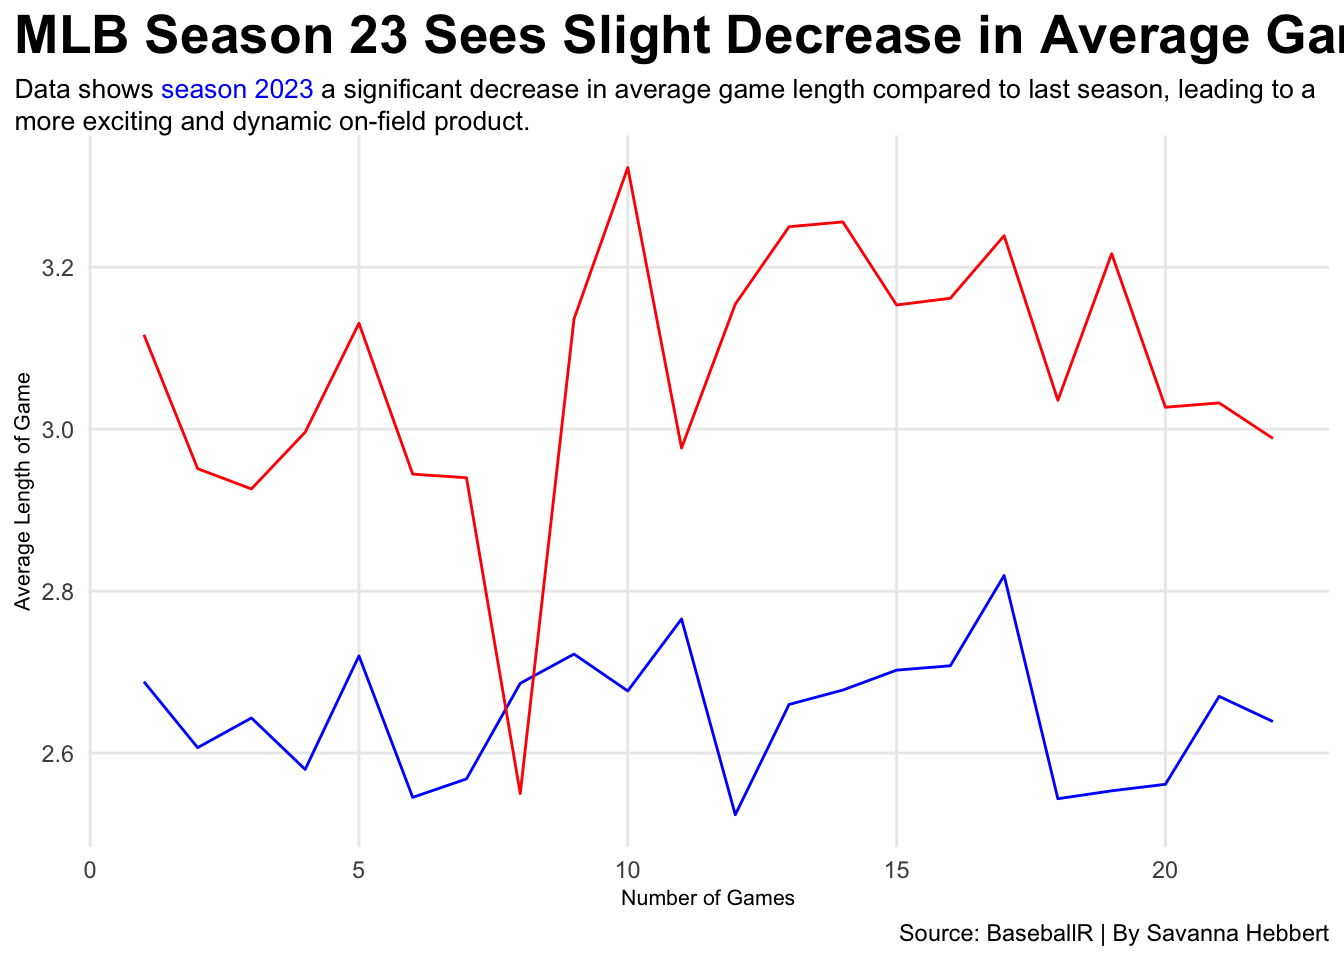
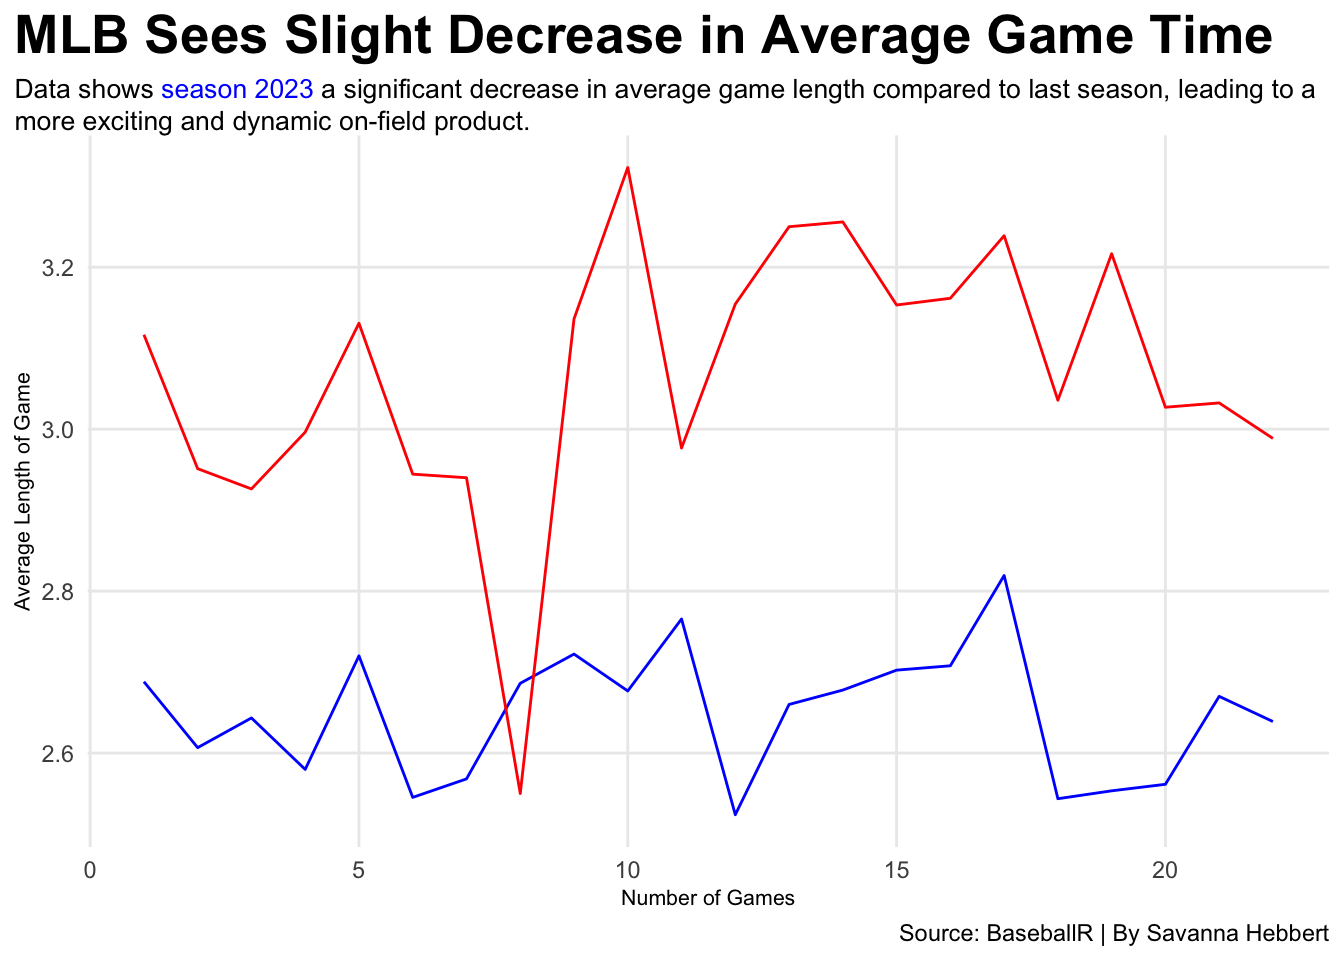
post2.2

Changed region(s): [[0.1562, 0.0, 1.0, 0.0625]]

diff --git a/posts/are-baseball-games-getting-shorter/index.html b/posts/are-baseball-games-getting-shorter/index.html
@@ -275,7 +275,7 @@ code span.wa { color: #60a0b0; font-weight: bold; font-style: italic; } /* Warni
 <span id="cb1-55"><a href="#cb1-55" aria-hidden="true" tabindex="-1"></a>  <span class="fu">labs</span>(</span>
 <span id="cb1-56"><a href="#cb1-56" aria-hidden="true" tabindex="-1"></a>    <span class="at">x=</span><span class="st">"Number of Games"</span>, </span>
 <span id="cb1-57"><a href="#cb1-57" aria-hidden="true" tabindex="-1"></a>    <span class="at">y=</span><span class="st">"Average Length of Game"</span>, </span>
-<span id="cb1-58"><a href="#cb1-58" aria-hidden="true" tabindex="-1"></a>    <span class="at">title=</span><span class="st">"MLB Season 23 Sees Slight Decrease in Average Game Time Compared to Season 22"</span>, </span>
+<span id="cb1-58"><a href="#cb1-58" aria-hidden="true" tabindex="-1"></a>    <span class="at">title=</span><span class="st">"MLB Sees Slight Decrease in Average Game Time"</span>, </span>
 <span id="cb1-59"><a href="#cb1-59" aria-hidden="true" tabindex="-1"></a>    <span class="at">subtitle=</span><span class="st">"Data shows&lt;span style = 'color:blue ;'&gt; season 2023&lt;/span&gt; a significant decrease in average game length compared\</span></span>
 <span id="cb1-60"><a href="#cb1-60" aria-hidden="true" tabindex="-1"></a><span class="st">to last season, leading to a more exciting and dynamic on-field product."</span>, </span>
 <span id="cb1-61"><a href="#cb1-61" aria-hidden="true" tabindex="-1"></a>    <span class="at">caption=</span><span class="st">"Source: BaseballR | By Savanna Hebbert"</span></span>
@@ -300,18 +300,19 @@ code span.wa { color: #60a0b0; font-weight: bold; font-style: italic; } /* Warni
 <span id="cb2-5"><a href="#cb2-5" aria-hidden="true" tabindex="-1"></a>  <span class="fu">labs</span>(</span>
 <span id="cb2-6"><a href="#cb2-6" aria-hidden="true" tabindex="-1"></a>    <span class="at">x=</span><span class="st">"Team"</span>, </span>
 <span id="cb2-7"><a href="#cb2-7" aria-hidden="true" tabindex="-1"></a>    <span class="at">y=</span><span class="st">"Amount of Added Time"</span>, </span>
-<span id="cb2-8"><a href="#cb2-8" aria-hidden="true" tabindex="-1"></a>    <span class="at">title=</span><span class="st">"Pitch Timer Violations Compared Between Pitchers and Batters by Team"</span>, </span>
-<span id="cb2-9"><a href="#cb2-9" aria-hidden="true" tabindex="-1"></a>    <span class="at">subtitle=</span><span class="st">"Analyzed timer violation data for pitchers and batters across different teams to see which teams had the most violations."</span>, </span>
-<span id="cb2-10"><a href="#cb2-10" aria-hidden="true" tabindex="-1"></a>    <span class="at">caption=</span><span class="st">"Source: BaseballR | By Savanna Hebbert"</span></span>
-<span id="cb2-11"><a href="#cb2-11" aria-hidden="true" tabindex="-1"></a>    )  <span class="sc">+</span></span>
-<span id="cb2-12"><a href="#cb2-12" aria-hidden="true" tabindex="-1"></a>  <span class="fu">scale_fill_manual</span>(<span class="at">name=</span><span class="st">""</span>, <span class="at">values=</span><span class="fu">c</span>(<span class="st">"PPTV"</span><span class="ot">=</span><span class="st">"blue"</span>, <span class="st">"BPTV"</span><span class="ot">=</span><span class="st">"red"</span>)) <span class="sc">+</span></span>
-<span id="cb2-13"><a href="#cb2-13" aria-hidden="true" tabindex="-1"></a><span class="fu">theme_minimal</span>() <span class="sc">+</span></span>
-<span id="cb2-14"><a href="#cb2-14" aria-hidden="true" tabindex="-1"></a>  <span class="fu">theme</span>(</span>
-<span id="cb2-15"><a href="#cb2-15" aria-hidden="true" tabindex="-1"></a>    <span class="at">plot.title =</span> <span class="fu">element_text</span>(<span class="at">size =</span> <span class="dv">20</span>, <span class="at">face =</span> <span class="st">"bold"</span>),</span>
-<span id="cb2-16"><a href="#cb2-16" aria-hidden="true" tabindex="-1"></a>    <span class="at">axis.title =</span> <span class="fu">element_text</span>(<span class="at">size =</span> <span class="dv">8</span>), </span>
-<span id="cb2-17"><a href="#cb2-17" aria-hidden="true" tabindex="-1"></a>    <span class="at">plot.subtitle =</span> <span class="fu">element_text</span>(<span class="at">size=</span><span class="dv">10</span>), </span>
-<span id="cb2-18"><a href="#cb2-18" aria-hidden="true" tabindex="-1"></a>    <span class="at">panel.grid.minor =</span> <span class="fu">element_blank</span>(),</span>
-<span id="cb2-19"><a href="#cb2-19" aria-hidden="true" tabindex="-1"></a>    <span class="at">plot.title.position =</span> <span class="st">"plot"</span>)</span></code><button title="Copy to Clipboard" class="code-copy-button"><i class="bi"></i></button></pre></div>
+<span id="cb2-8"><a href="#cb2-8" aria-hidden="true" tabindex="-1"></a>    <span class="at">title=</span><span class="st">"Who is Breaking the Rules?"</span>, </span>
+<span id="cb2-9"><a href="#cb2-9" aria-hidden="true" tabindex="-1"></a>    <span class="at">subtitle=</span><span class="st">"Analyzed timer violation data for pitchers and batters \</span></span>
+<span id="cb2-10"><a href="#cb2-10" aria-hidden="true" tabindex="-1"></a><span class="st">              across different teams to see which teams had the most violations."</span>, </span>
+<span id="cb2-11"><a href="#cb2-11" aria-hidden="true" tabindex="-1"></a>    <span class="at">caption=</span><span class="st">"Source: BaseballR | By Savanna Hebbert"</span></span>
+<span id="cb2-12"><a href="#cb2-12" aria-hidden="true" tabindex="-1"></a>    )  <span class="sc">+</span></span>
+<span id="cb2-13"><a href="#cb2-13" aria-hidden="true" tabindex="-1"></a>  <span class="fu">scale_fill_manual</span>(<span class="at">name=</span><span class="st">""</span>, <span class="at">values=</span><span class="fu">c</span>(<span class="st">"PPTV"</span><span class="ot">=</span><span class="st">"blue"</span>, <span class="st">"BPTV"</span><span class="ot">=</span><span class="st">"red"</span>)) <span class="sc">+</span></span>
+<span id="cb2-14"><a href="#cb2-14" aria-hidden="true" tabindex="-1"></a><span class="fu">theme_minimal</span>() <span class="sc">+</span></span>
+<span id="cb2-15"><a href="#cb2-15" aria-hidden="true" tabindex="-1"></a>  <span class="fu">theme</span>(</span>
+<span id="cb2-16"><a href="#cb2-16" aria-hidden="true" tabindex="-1"></a>    <span class="at">plot.title =</span> <span class="fu">element_text</span>(<span class="at">size =</span> <span class="dv">20</span>, <span class="at">face =</span> <span class="st">"bold"</span>),</span>
+<span id="cb2-17"><a href="#cb2-17" aria-hidden="true" tabindex="-1"></a>    <span class="at">axis.title =</span> <span class="fu">element_text</span>(<span class="at">size =</span> <span class="dv">8</span>), </span>
+<span id="cb2-18"><a href="#cb2-18" aria-hidden="true" tabindex="-1"></a>    <span class="at">plot.subtitle =</span> <span class="fu">element_text</span>(<span class="at">size=</span><span class="dv">10</span>), </span>
+<span id="cb2-19"><a href="#cb2-19" aria-hidden="true" tabindex="-1"></a>    <span class="at">panel.grid.minor =</span> <span class="fu">element_blank</span>(),</span>
+<span id="cb2-20"><a href="#cb2-20" aria-hidden="true" tabindex="-1"></a>    <span class="at">plot.title.position =</span> <span class="st">"plot"</span>)</span></code><button title="Copy to Clipboard" class="code-copy-button"><i class="bi"></i></button></pre></div>
 </details>
 <div class="cell-output-display">
 <p><img src="index_files/figure-html/unnamed-chunk-1-2.png" class="img-fluid" width="672"></p>

diff --git a/index.html b/index.html
@@ -171,7 +171,7 @@ ul.task-list li input[type="checkbox"] {
 
 <div class="quarto-listing quarto-listing-container-default" id="listing-listing">
 <div class="list quarto-listing-default">
-<div class="quarto-post image-right" data-index="0" data-categories="averagelength,violations,pitchpace" data-listing-date-sort="1683435600000" data-listing-file-modified-sort="1683312358155" data-listing-reading-time-sort="4.78">
+<div class="quarto-post image-right" data-index="0" data-categories="averagelength,violations,pitchpace" data-listing-date-sort="1683435600000" data-listing-file-modified-sort="1683312444181" data-listing-reading-time-sort="4.83">
 <div class="thumbnail">
 <p><a href="./posts/are-baseball-games-getting-shorter/index.html"> <img src="./posts/are-baseball-games-getting-shorter/image.png" class="thumnail-image"> </a></p>
 </div>
